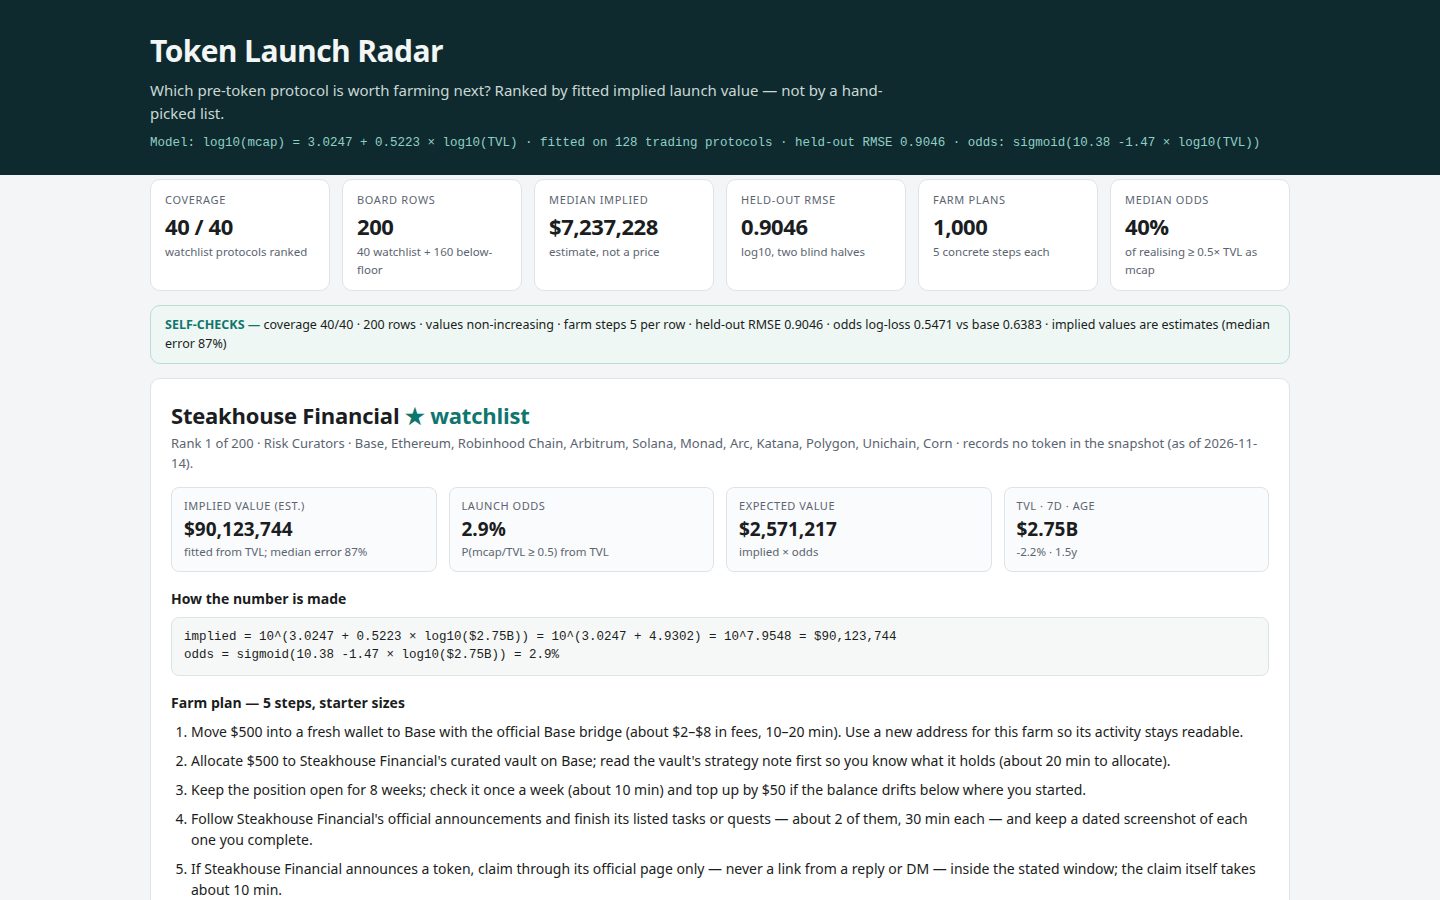
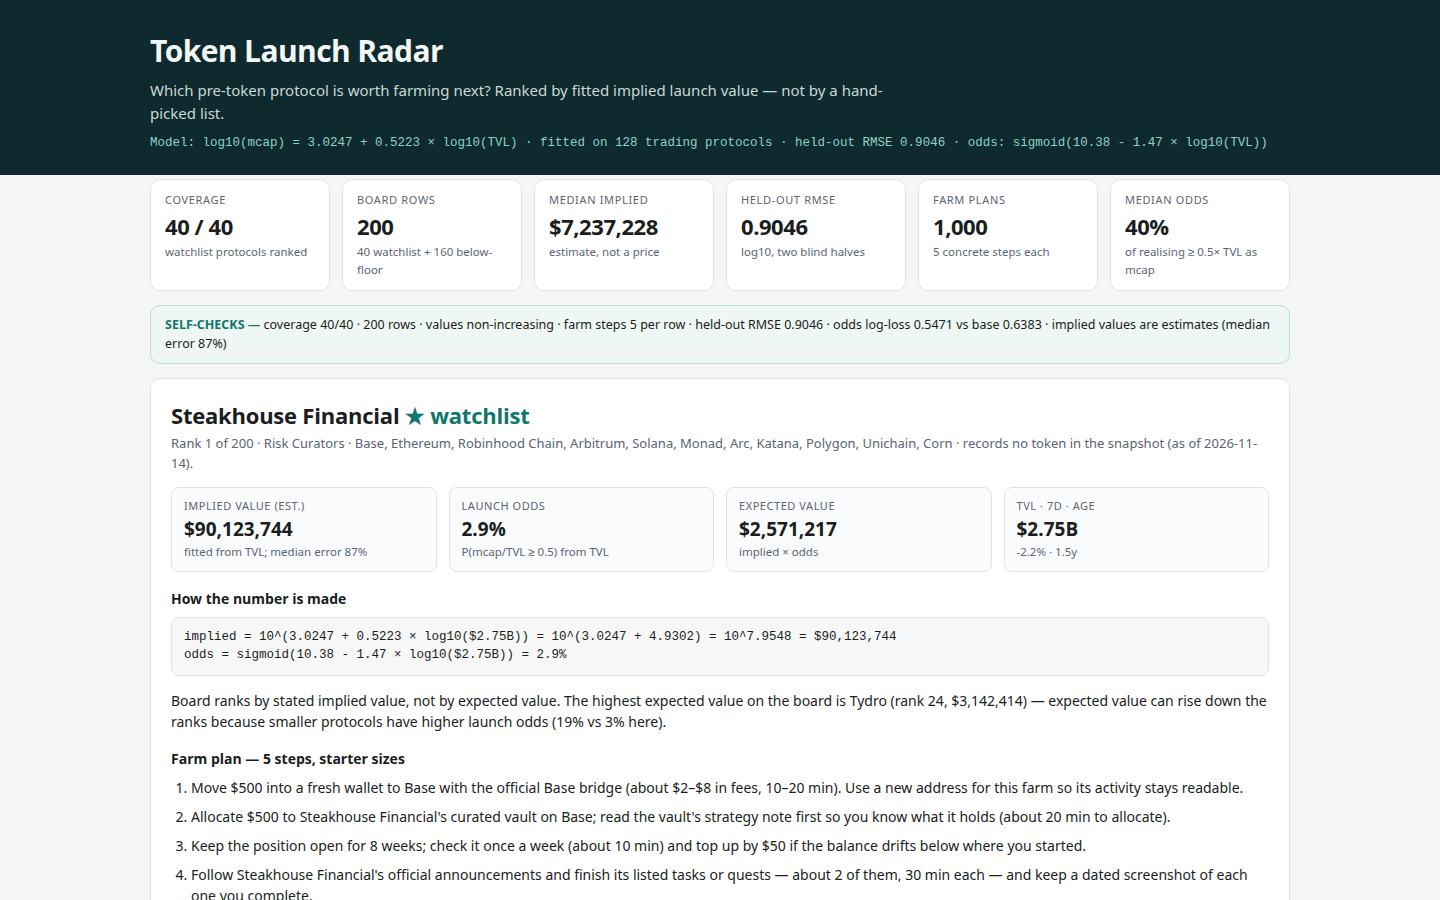
token-radar-01 v2 rev2: odds string single source of truth + EV note in detail view (Gemini SHIP-WITH-FIXES)

Changed region(s): [[0.125, 0.7778, 0.875, 1.0], [0.25, 0.7156, 0.4062, 0.7467], [0.7812, 0.1556, 0.875, 0.1867]]

diff --git a/dashboard/app.js b/dashboard/app.js
@@ -61,6 +61,24 @@
     return (g >= 0 ? '+' : '') + g.toFixed(1) + '%';
   }
 
+  // One odds-formula string for every place it appears (single source of truth):
+  // the intercept/slope always come from the runtime fit, with correct sign spacing.
+  function oddsFormula(label) {
+    return 'sigmoid(' + fit.odds.intercept.toFixed(2) +
+      (fit.odds.slope >= 0 ? ' + ' : ' - ') + Math.abs(fit.odds.slope).toFixed(2) +
+      ' × log10(' + (label || 'TVL') + '))';
+  }
+
+  // Why rank 1 on implied value can have a lower expected value than a lower
+  // rank: the board ranks by stated implied value, while expected value
+  // (implied x odds) can rise down the ranks because smaller protocols have
+  // higher launch odds. The top-EV row is computed from the rows at runtime.
+  function evNote(r) {
+    var top = rows.reduce(function (a, b) { return b.expected_value_usd > a.expected_value_usd ? b : a; });
+    if (top.slug === r.slug) return 'Board ranks by stated implied value. This row also has the highest expected value on the board (' + money(r.expected_value_usd) + ').';
+    return 'Board ranks by stated implied value, not by expected value. The highest expected value on the board is ' + top.name + ' (rank ' + top.rank + ', ' + money(top.expected_value_usd) + ') — expected value can rise down the ranks because smaller protocols have higher launch odds (' + pct(top.odds, 0) + ' vs ' + pct(r.odds, 0) + ' here).';
+  }
+
   // Header model line + KPI strip.
   // Header model line — the board's actual fitted formula, growth term included when used.
   var modelTxt = 'Model: log10(mcap) = ' + fit.valueIntercept.toFixed(4) + ' + ' + fit.valueSlope.toFixed(4) + ' × log10(TVL)';
@@ -68,8 +86,7 @@
     modelTxt += ' + ' + fit.growthCoef.toFixed(4) + ' × growthSign';
   }
   modelTxt += '  ·  fitted on ' + fit.nTrading + ' trading protocols  ·  held-out RMSE ' +
-    variantHeldOut.meanRmse.toFixed(4) + '  ·  odds: sigmoid(' + fit.odds.intercept.toFixed(2) +
-    ' ' + fit.odds.slope.toFixed(2) + ' × log10(TVL))';
+    variantHeldOut.meanRmse.toFixed(4) + '  ·  odds: ' + oddsFormula();
   $('#model-line').textContent = modelTxt;
   var kpis = [
     ['Coverage', fit.watchlistCovered + ' / 40', 'watchlist protocols ranked'],
@@ -212,8 +229,7 @@
       ') = 10^(' + td.intercept.toFixed(4) + ' + ' + td.tvl_term.toFixed(4) +
       (td.growth_term !== 0 ? ' + ' + td.growth_term.toFixed(4) : '') +
       ') = 10^' + logIv.toFixed(4) + ' = ' + money(r.implied_value_usd);
-    var oddsLine = 'odds = sigmoid(' + fit.odds.intercept.toFixed(2) + ' ' + fit.odds.slope.toFixed(2) +
-      ' × log10(' + moneyShort(r.tvl_usd) + ')) = ' + pct(r.odds, 1);
+    var oddsLine = 'odds = ' + oddsFormula(moneyShort(r.tvl_usd)) + ' = ' + pct(r.odds, 1);
     $('#detail').innerHTML =
       '<h2>' + r.name + ' <span class="wl">' + (r.watchlist ? '★ watchlist' : '') + '</span></h2>' +
       '<p class="meta">Rank ' + r.rank + ' of ' + rows.length + ' · ' + (r.category || 'no category') +
@@ -230,6 +246,7 @@
       '</div>' +
       '<h3>How the number is made</h3>' +
       '<div class="decomp">' + decomp + '<br>' + oddsLine + '</div>' +
+      '<p class="note">' + evNote(r) + '</p>' +
       '<h3>Farm plan — 5 steps, starter sizes</h3>' +
       '<ol>' + r.farm_steps.map(function (s) { return '<li>' + s + '</li>'; }).join('') + '</ol>';
   }
@@ -277,7 +294,7 @@
       '<div class="card"><h3>How the implied values spread</h3>' + hist +
       '<p class="note">200 rows, log scale. Most protocols cluster at $4–12M; the watchlist top sits far above.</p></div>' +
       '<div class="card"><h3>Launch odds vs TVL — the fitted curve</h3>' + curve +
-      '<p class="note">Every row sits on one fitted curve: odds = sigmoid(10.38 − 1.47 × log10(TVL)). Small TVL, higher odds.</p></div>';
+      '<p class="note">Every row sits on one fitted curve: odds = ' + oddsFormula() + '. Small TVL, higher odds.</p></div>';
   }
 
   function renderMethod() {
